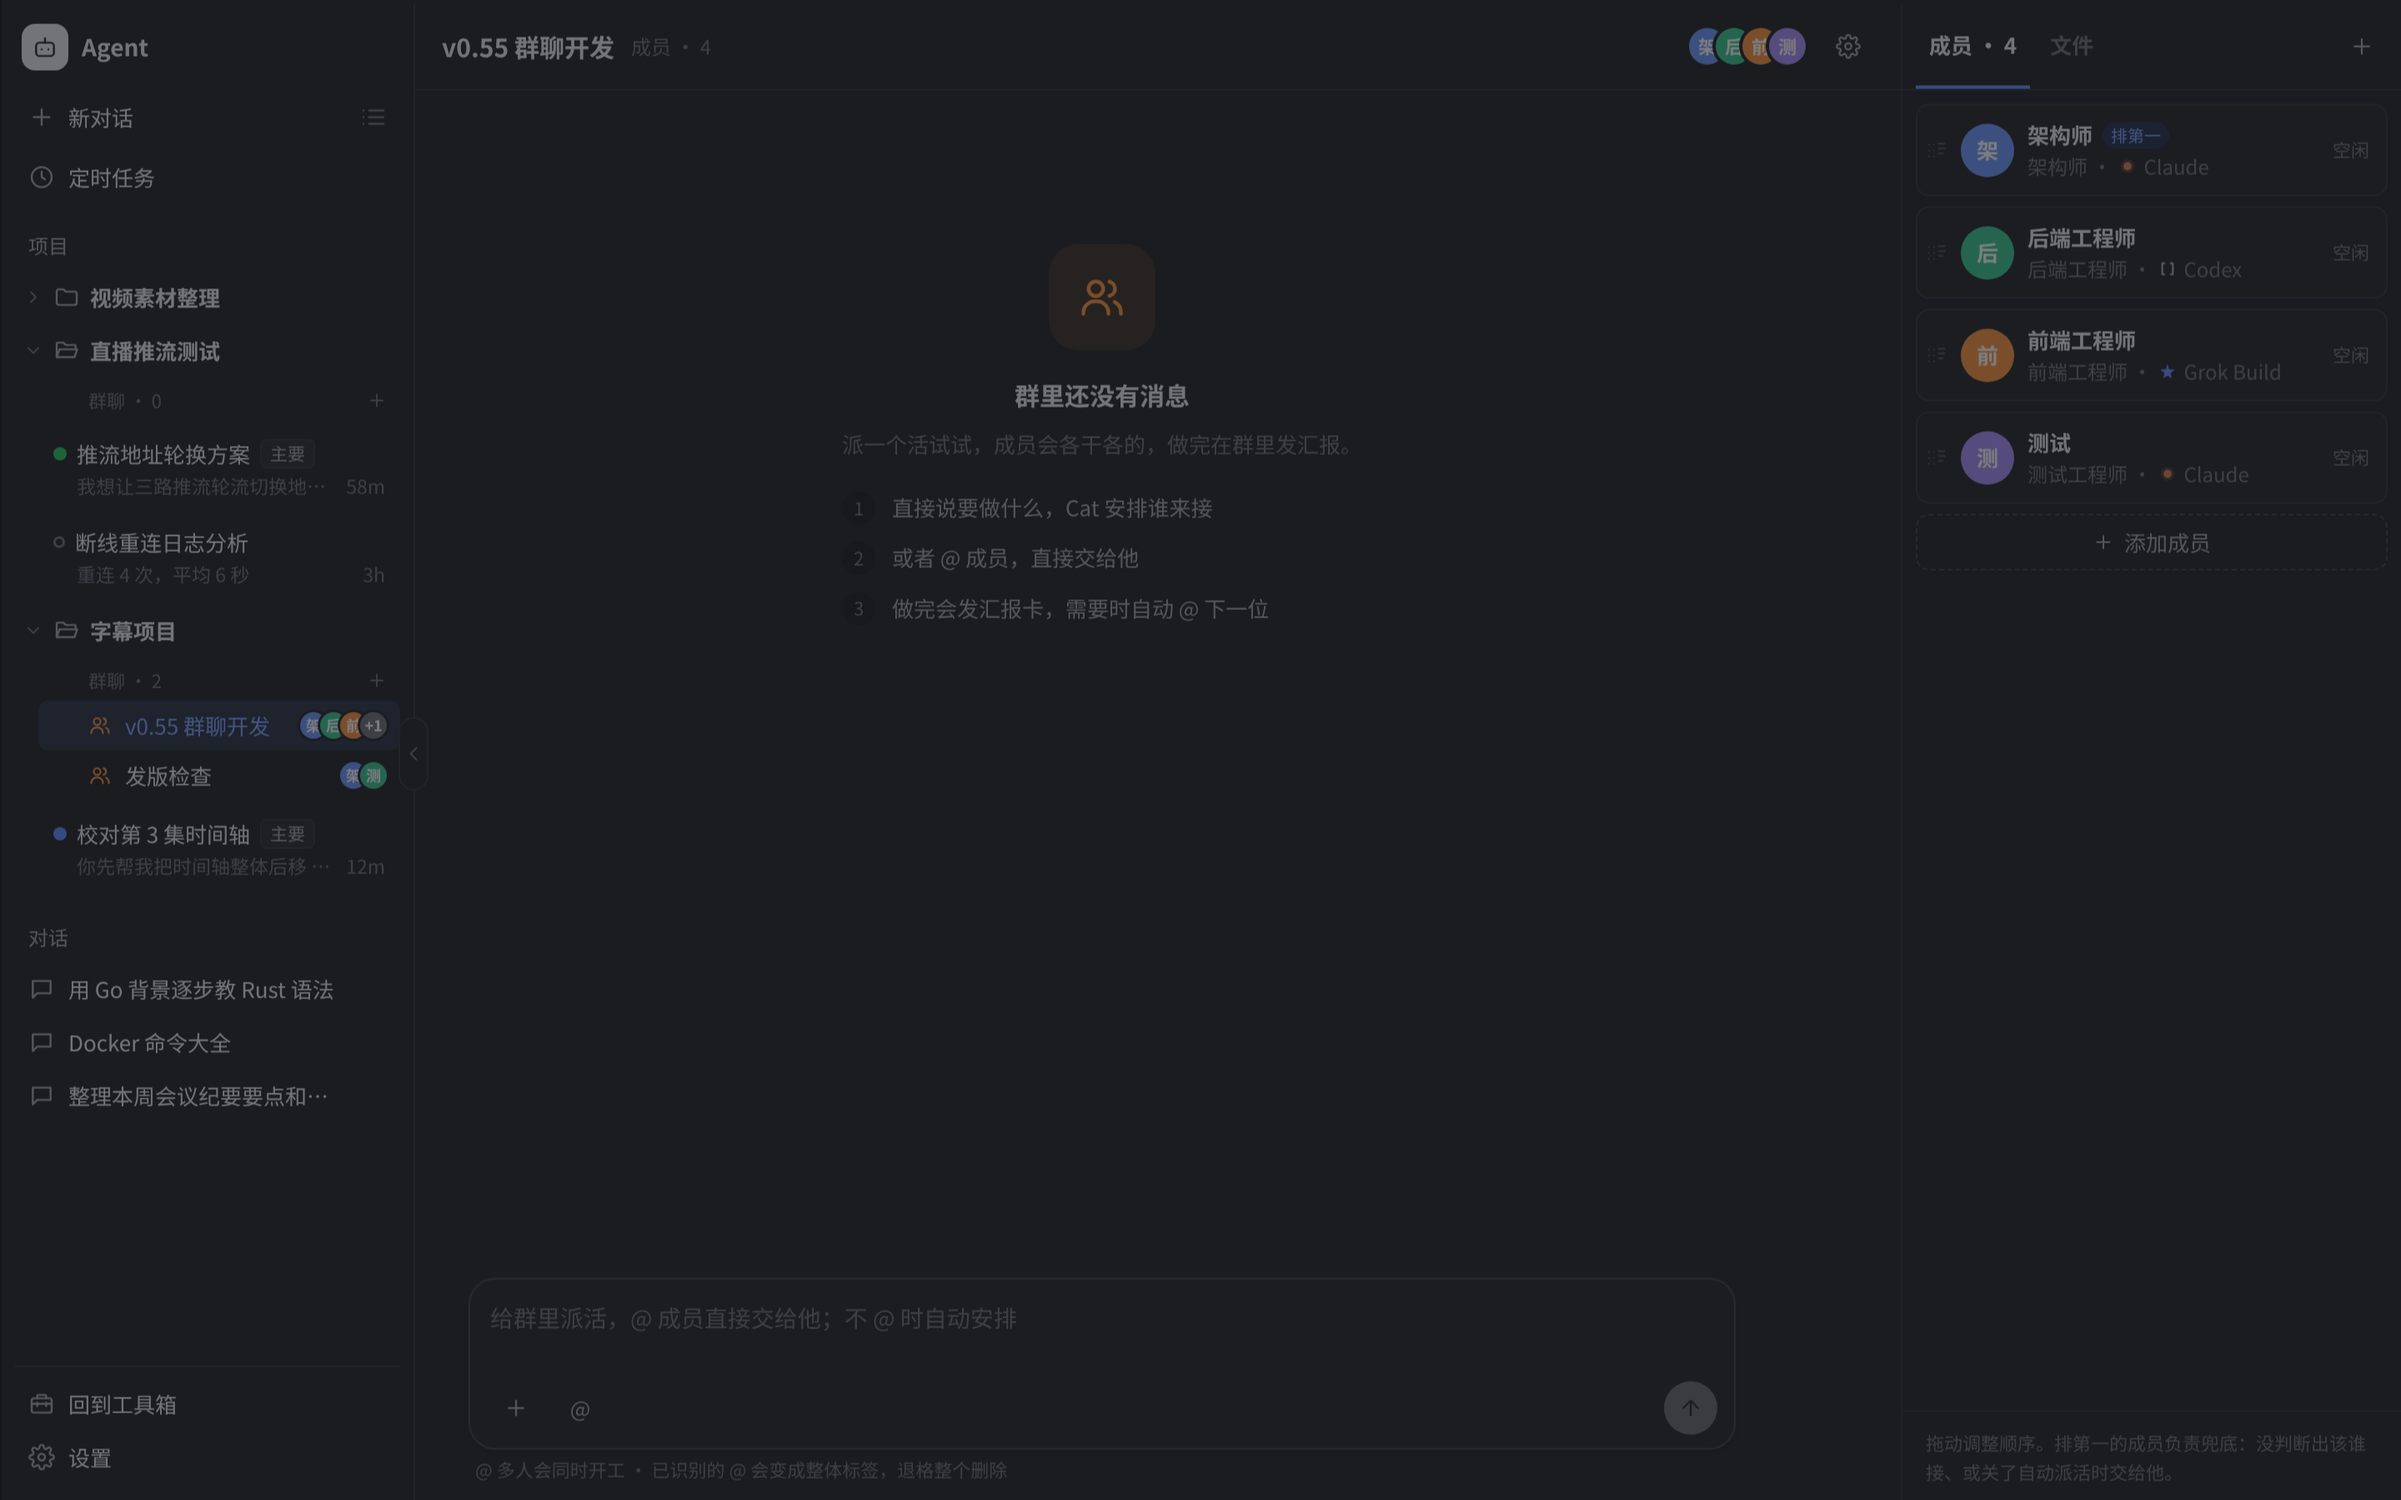
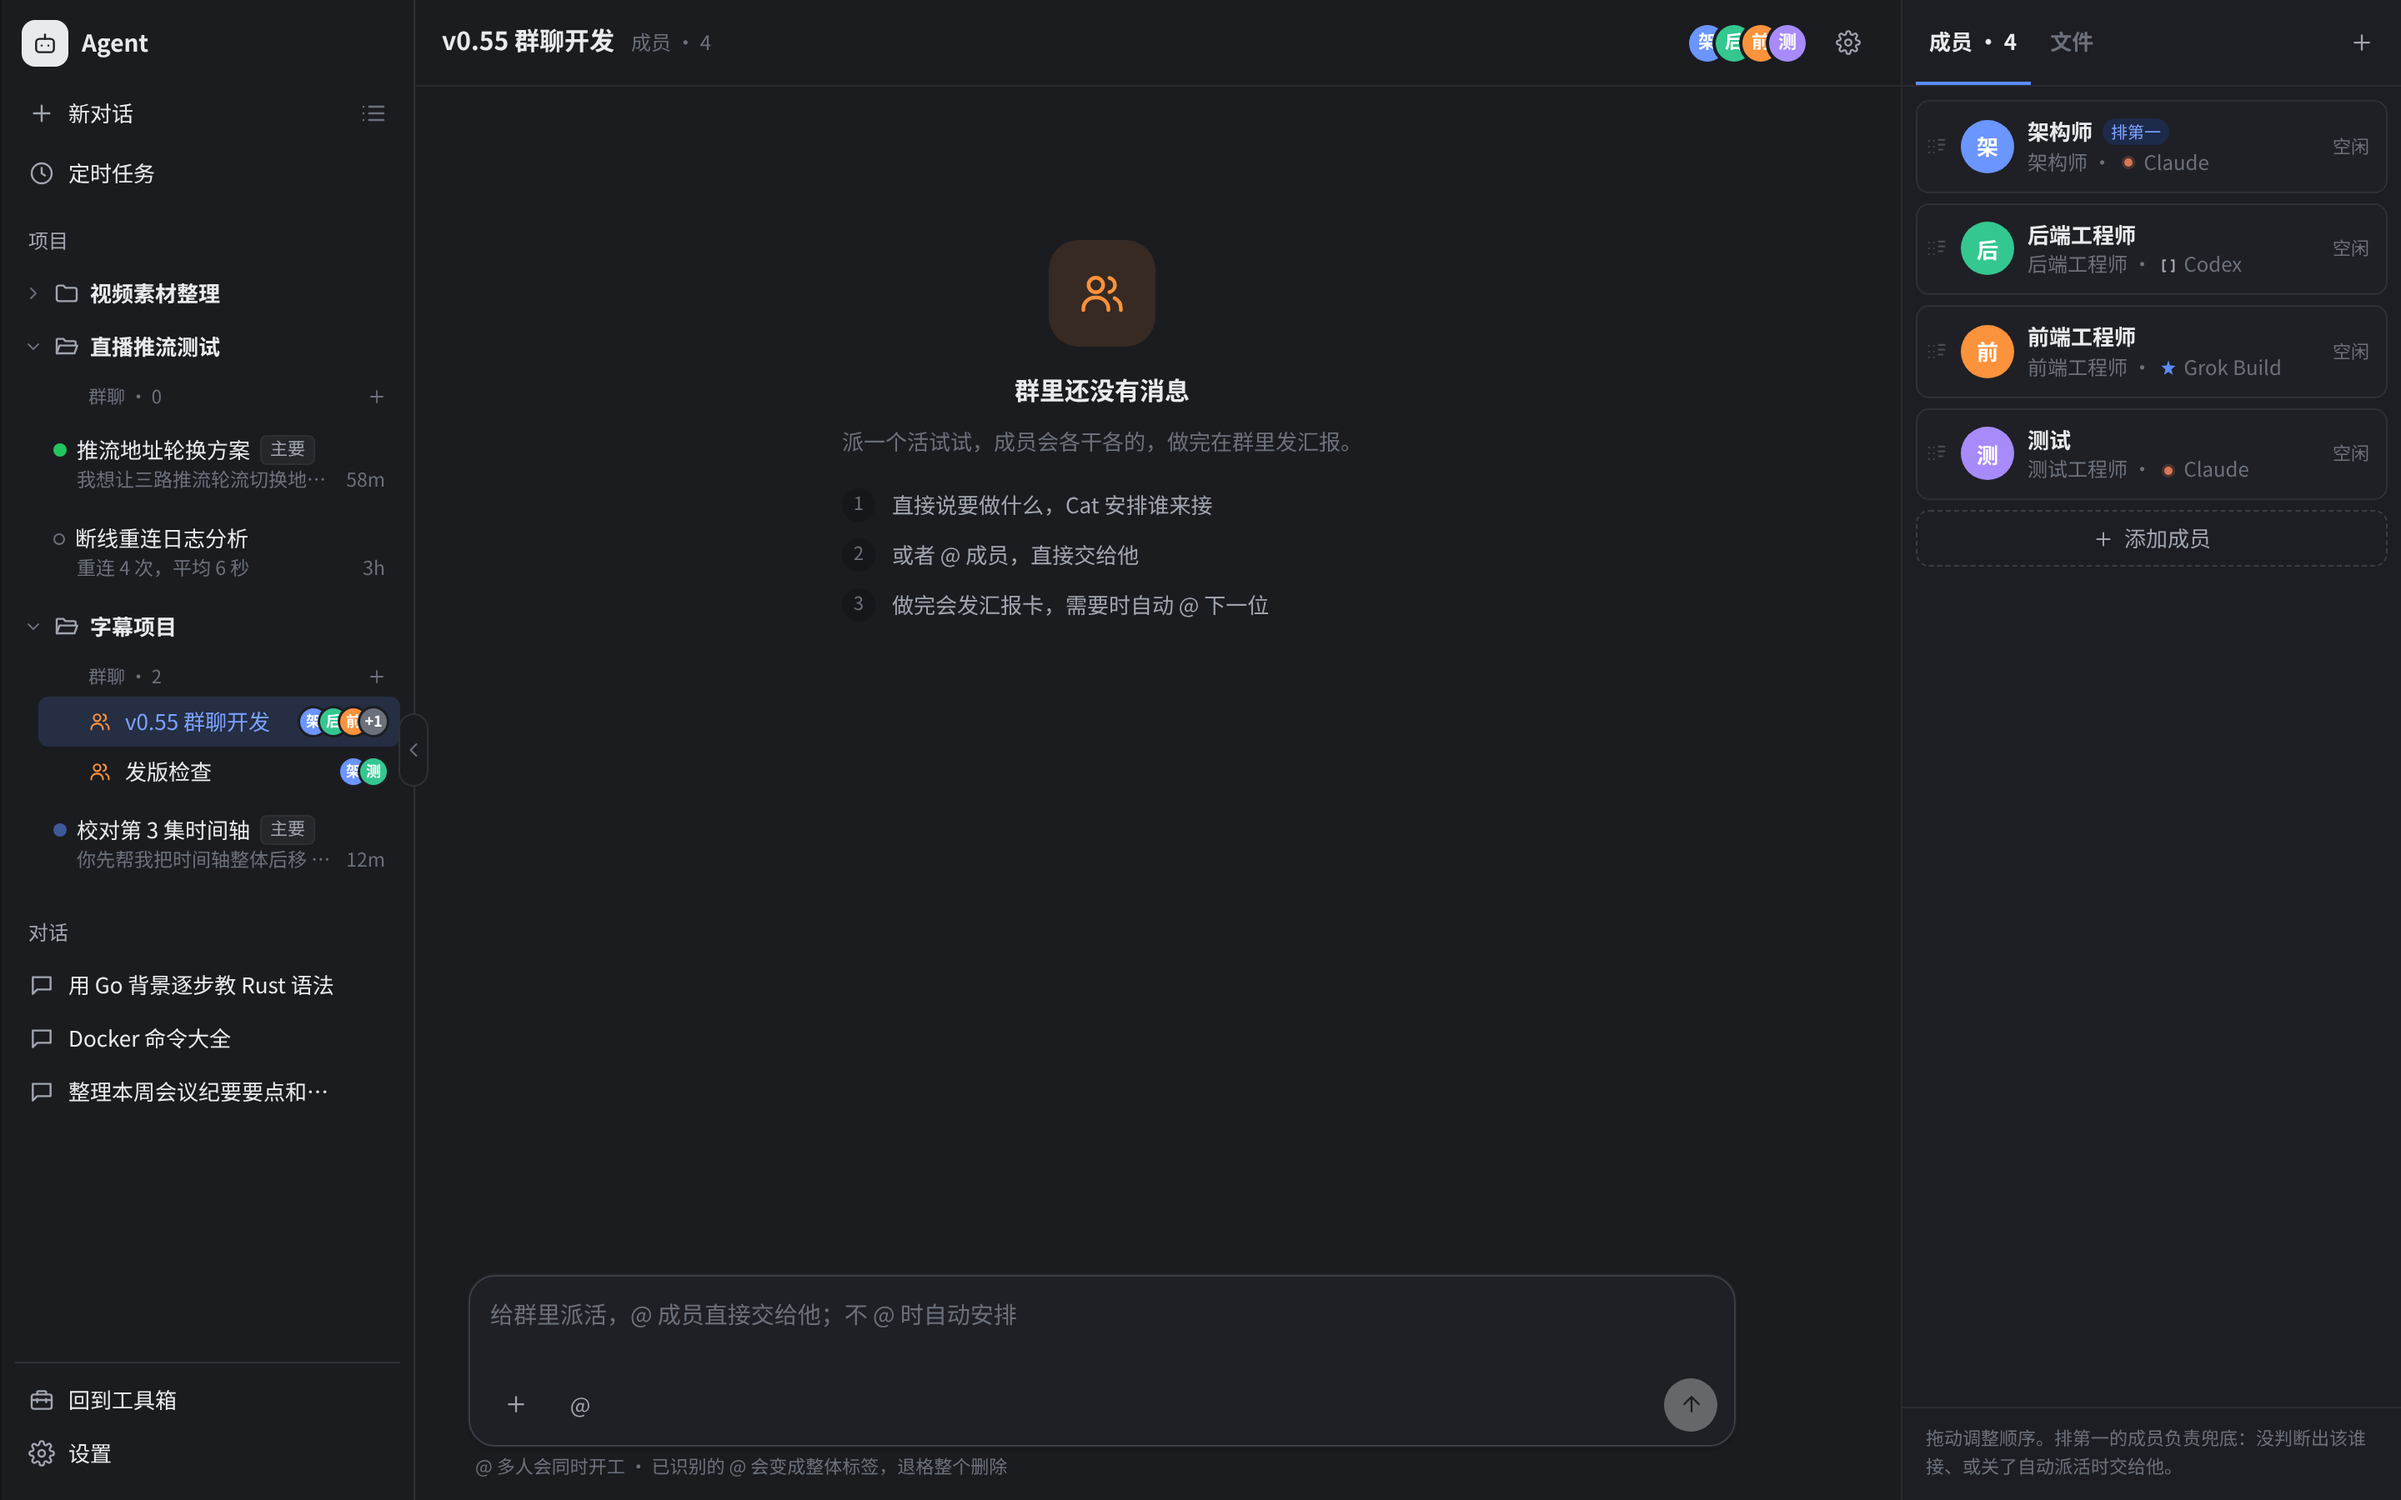
chore(i18n): guard vue-i18n special chars (@ { } |) in check:i18n; fix violations; group running status text gray + breathing dot; reshoot list/members

diff --git a/frontend/src/components/cat/group/catGroup.css b/frontend/src/components/cat/group/catGroup.css
@@ -278,7 +278,7 @@
 .cg-comp .row textarea { flex: 1; min-width: 160px; }
 .cg-comp .cg-chip { background: var(--cat-accent-soft); color: var(--cat-accent); border-radius: 4px; padding: 0 4px; font-size: 13px; display: inline-flex; align-items: center; gap: 2px; }
 .cg-comp .cg-chip button { border: 0; background: none; color: inherit; padding: 0; cursor: pointer; display: inline-flex; }
-.cg-pop .tt.busy { color: var(--cat-success-text); }
+.cg-pop .tt.busy { color: var(--ff-text-2); }
 .cg-chint { font-size: 11px; color: var(--cat-muted); margin-bottom: 12px; padding-left: 4px; }
 .cg-scrim.on { position: absolute; inset: 0; z-index: 39; background: rgba(0, 0, 0, 0.18); }
 .cg-proc { width: min(480px, 100%); }
@@ -304,7 +304,7 @@
 .av.md { width: 32px; height: 32px; font-size: 13px; position: relative; }
 .av .odot { position: absolute; right: -1px; top: -1px; width: 9px; height: 9px; border-radius: 50%; background: var(--cat-orange); box-shadow: 0 0 0 2px var(--cat-surface); }
 .cg-st { flex: none; font-size: 11px; color: var(--cat-muted); display: inline-flex; align-items: center; gap: 2px; white-space: nowrap; }
-.cg-st.busy { color: var(--cat-success-text); }
+.cg-st.busy { color: var(--ff-text-2); }
 .cg-st.over { color: var(--cat-orange); }
 .cg-st.failed { color: var(--cat-danger-text); }
 .cg-ib.sm { height: 20px; min-width: 20px; padding: 0; }
@@ -379,5 +379,6 @@
 .cg-files-tab { gap: 0; }
 .cg-st.queued { color: var(--cat-accent); }
 
-.cg-mc-row .nm .s { display: flex; align-items: center; gap: 5px; font-size: 11px; color: var(--cat-success-text); margin-top: 1px; }
-.cg-mc-row .nm .s .cg-breath { width: 6px; height: 6px; border-radius: 50%; background: var(--cat-accent); animation: cg-breathe 1.6s ease-in-out infinite; flex: none; }
+.cg-mc-row .nm .s { display: flex; align-items: center; gap: 5px; font-size: 11px; color: var(--ff-text-2); margin-top: 1px; }
+.cg-pop .tt.busy { display: inline-flex; align-items: center; gap: 5px; }
+.cg-breath, .cg-mc-row .nm .s .cg-breath { width: 6px; height: 6px; border-radius: 50%; background: var(--cat-accent); animation: cg-breathe 1.6s ease-in-out infinite; flex: none; }

diff --git a/frontend/src/components/cat/group/CatGroupView.vue b/frontend/src/components/cat/group/CatGroupView.vue
@@ -129,7 +129,7 @@
                     <div class="ph">{{ t('cat.groupChat.swapTitle') }}</div>
                     <button v-for="o in store.membersSorted" :key="o.id" type="button" class="it" role="menuitem" :disabled="o.id === (m.toMemberId || m.route?.memberId)" @click="doReassign(m, o.id)">
                       <span class="av sm" :style="{ '--c': memberColorVar(o.order) }">{{ initial(o.name) }}</span>{{ o.name }}
-                      <span class="sp" /><span class="tt">{{ o.id === (m.toMemberId || m.route?.memberId) ? t('cat.groupChat.current') : store.live[o.id] ? t('cat.groupChat.busy') : t('cat.groupChat.idle') }}</span>
+                      <span class="sp" /><span class="tt" :class="{ busy: store.live[o.id] && o.id !== (m.toMemberId || m.route?.memberId) }"><i v-if="store.live[o.id] && o.id !== (m.toMemberId || m.route?.memberId)" class="cg-breath" />{{ o.id === (m.toMemberId || m.route?.memberId) ? t('cat.groupChat.current') : store.live[o.id] ? t('cat.groupChat.busy') : t('cat.groupChat.idle') }}</span>
                     </button>
                     <div class="pn">{{ t('cat.groupChat.swapNote') }}</div>
                   </div>
@@ -171,7 +171,7 @@
           <div class="ph">{{ AT }} {{ t('cat.groupChat.members') }}</div>
           <button v-for="(o, i) in mentionList" :key="o.id" type="button" class="it" :class="{ on: i === mentionIdx }" role="option" :aria-selected="i === mentionIdx" @mousedown.prevent="pickMention(o.id)">
             <span class="av sm" :style="{ '--c': memberColorVar(o.order) }">{{ initial(o.name) }}</span>{{ o.name }}<span class="tt">{{ o.title }}</span>
-            <span class="sp" /><span class="tt" :class="{ busy: store.live[o.id] }">{{ store.live[o.id] ? t('cat.groupChat.busy') : t('cat.groupChat.idle') }}</span>
+            <span class="sp" /><span class="tt" :class="{ busy: store.live[o.id] }"><i v-if="store.live[o.id]" class="cg-breath" />{{ store.live[o.id] ? t('cat.groupChat.busy') : t('cat.groupChat.idle') }}</span>
           </button>
         </div>
         <div class="row">
